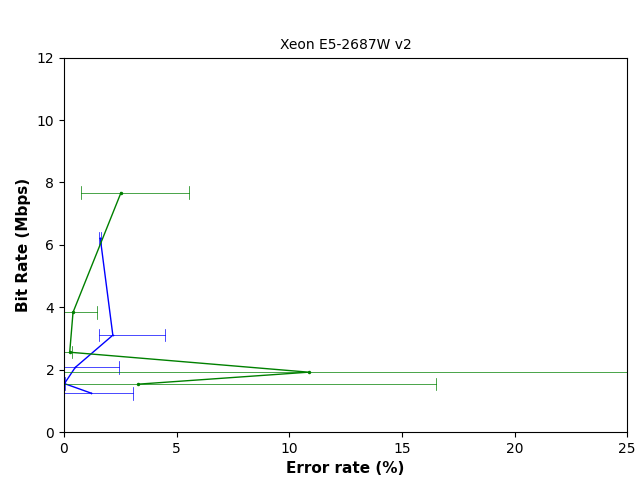
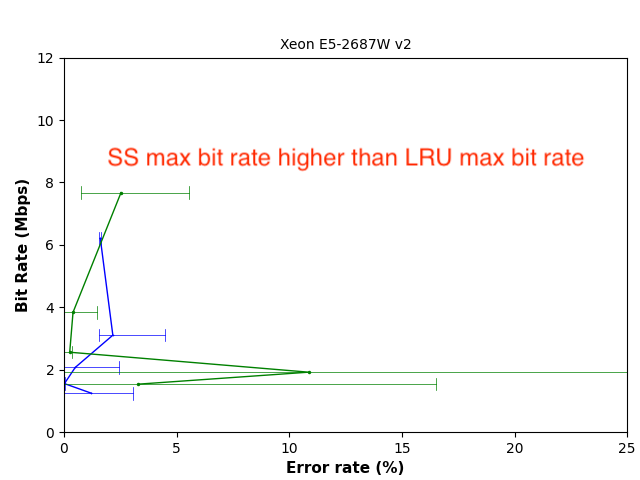
update ss

Changed region(s): [[0.1562, 0.2812, 0.9375, 0.375]]

diff --git a/docs/hpca_ae/figure6.md b/docs/hpca_ae/figure6.md
@@ -1,5 +1,6 @@
-# Figure 6
+# Figure 6: Bit rate of the StealthyStreamline attack and the LRU address-based attack 
 
+The following experiment is performed on the given [ssh host](server.md) with Intel E5-2686v2 CPU. Unfortunately we cannot provide ssh access on other three Intel CPUs shown in the paper. A new machine needs additional calibration.
 
 ```
 $ cd ${GIT_ROOT}/src/stealthy_streamline
@@ -47,16 +48,20 @@ Which looks like
 
 ![](../../fig/stealthy_streamline_error.png)
 
-## running Spectre attack with StreathyStreamline
+We can observe that StealthyStreamline (SS) in green has higher max bit rate than LRU in blue line.
+
+## running Spectre attack with SteathyStreamline
+
+StealthyStreamline can be used to commit the Spectre attack's state into caches efficiently, here we demonstrate it.
+Given the secret ```The_Magic Words_are_12390+mish_Ossifrage``` (which is hardcoded in [```main.c```](../../src/stealthy_stream/spectre_stream/main.c)), we can use Spectre to exact the secret.
+
 
 ```
 $ cd ${GIT_ROOT}/src/stealthy_streamline
 $ ./SSspectre 
 ```
 
-secret = "The_Magic Words_are_12390+mish_Ossifrage"
-
-
+The output looks like the following. Where for each reading, one alphabet of the secret is extracted.
 
 ```
 $ ./SSspctre 

diff --git a/docs/hpca_ae/table5.md b/docs/hpca_ae/table5.md
@@ -1,0 +1,33 @@
+# Compare efforts of training with different replacement policies
+
+First, go to the directory.
+
+```
+cd ${GIT_ROOT}/src/rlmeta
+```
+
+To train a config in Table V, use the following script:
+
+```
+$ python train_ppo_attack.py env_config=<NAME_OF_THE_CONFIG>
+```
+
+There are 17 configs in Table V, and we have ```hpca_ae_exp_5_1```, ```hpca_ae_exp_4_2```, ..., ```hpca_ae_exp_5_3``` correpondingly, replace ```<NAME_OF_THE_CONFIG>``` with these.
+
+Use ```Ctrl+C``` to interrupt the training, which will save a checkpoint in the given path.
+
+To extract the attack pattern from the checkpoint, use the following command (replace ```<NAME_OF_THE_CONFIG>``` and ```<ABSOLUTE_PATH_TO_CHECKPOINT>```) correspondingly.
+
+```
+$ python sample_attack.py  env_config=<NAME_OF_THE_CONFIG> checkpoint=<ABSOLUTE_PATH_TO_CHECKPOINT>
+```
+
+Since the training takes some time, we provide pretrained checkpoints in the following directory ```checkpoint```. Use the above command to replay these checkpoints.
+
+For example
+
+```
+$ python sample_attack.py  env_config=hpca_ae_exp_4_1 checkpoint=${GIT_ROOT}/src/rlmeta/data/table4/hpca_ae_exp_4_1/ppoagent.pth
+```
+
+will print out the following:
